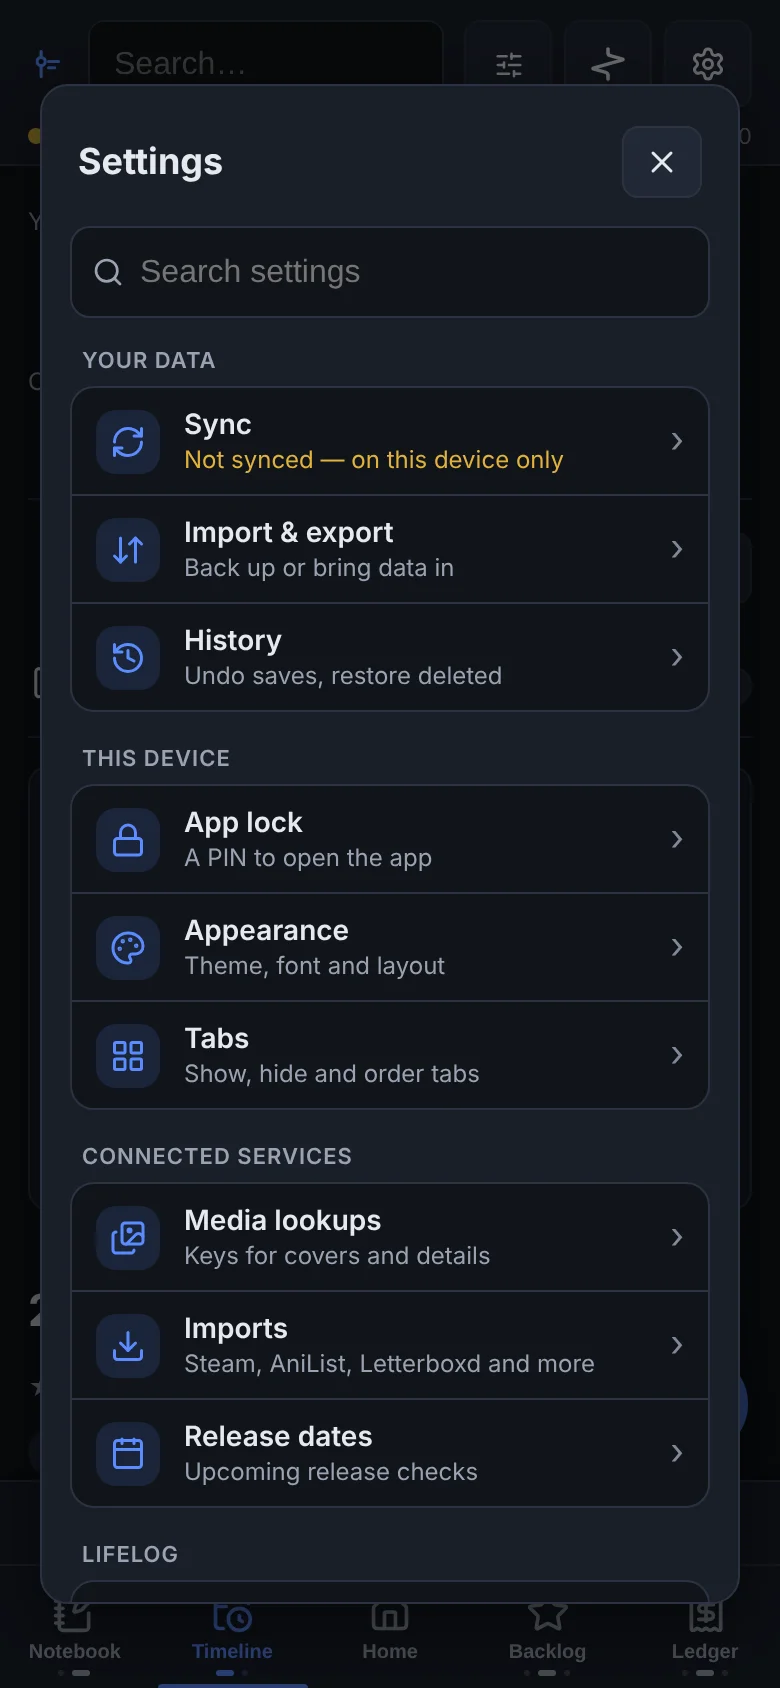
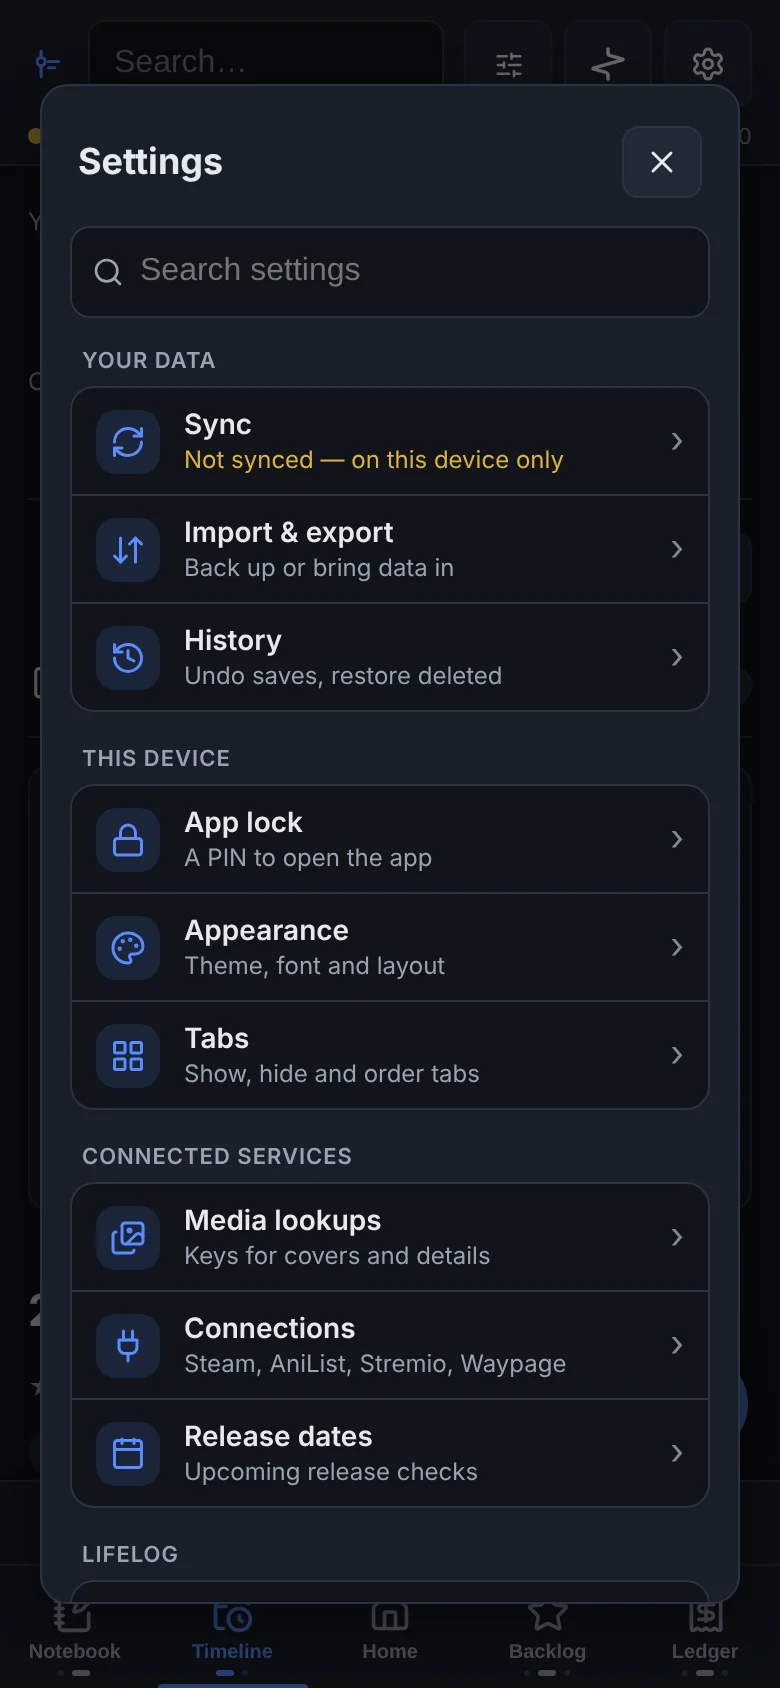
Rename Settings → Imports to Connections (#94)
The page now holds two-way and ongoing links (AniList, Stremio, Waypage,
Steam checks, Google Wallet) as well as one-off imports. Only the label,
title, row icon (plug) and row line change; the page id stays "imports"
and nothing in stored data is renamed. "imports" stays a search keyword.

Claude-Session: https://claude.ai/code/session_01CFeKrhafUbCph17Gwgc1uq

diff --git a/index.html b/index.html
@@ -1405,7 +1405,7 @@
             <div class="sgroup-label">Connected services</div>
             <div class="sgroup-card">
               <button type="button" class="srow" data-page="media"><span class="srow-ic"><span data-ico="images"></span></span><span class="srow-text"><span class="srow-title">Media lookups</span><span class="srow-status" data-status="media"></span></span><span class="srow-chev" aria-hidden="true">›</span></button>
-              <button type="button" class="srow" data-page="imports"><span class="srow-ic"><span data-ico="download"></span></span><span class="srow-text"><span class="srow-title">Imports</span><span class="srow-status" data-status="imports"></span></span><span class="srow-chev" aria-hidden="true">›</span></button>
+              <button type="button" class="srow" data-page="imports"><span class="srow-ic"><span data-ico="plug"></span></span><span class="srow-text"><span class="srow-title">Connections</span><span class="srow-status" data-status="imports"></span></span><span class="srow-chev" aria-hidden="true">›</span></button>
               <button type="button" class="srow" data-page="releases"><span class="srow-ic"><span data-ico="calendar"></span></span><span class="srow-text"><span class="srow-title">Release dates</span><span class="srow-status" data-status="releases"></span></span><span class="srow-chev" aria-hidden="true">›</span></button>
             </div>
           </div>
@@ -1901,8 +1901,8 @@
       </section>
       </div>
 
-      <div class="settings-page" hidden data-page="imports" data-title="Imports" data-keywords="steam wishlist how long to beat hltb game times opencritic metacritic scores anilist planning watching completed anime manga stremio waypage reading books audiobooks comics serials minutes google wallet pay payment notification expense letterboxd films diary watchlist zip csv owned library played playtime backfill api key">
-      <h2 class="settings-page-title">Imports</h2>
+      <div class="settings-page" hidden data-page="imports" data-title="Connections" data-keywords="connections imports sync steam wishlist how long to beat hltb game times opencritic metacritic scores anilist planning watching completed anime manga stremio waypage reading books audiobooks comics serials minutes google wallet pay payment notification expense letterboxd films diary watchlist zip csv owned library played playtime backfill api key">
+      <h2 class="settings-page-title">Connections</h2>
       <p class="hint page-lede">You pick what comes in, and nothing already in your backlog is added twice. The automatic check only tells you what's new.</p>
       <section class="sgroup">
         <h3 class="sgroup-label">Steam wishlist</h3>

diff --git a/src/sync.js b/src/sync.js
@@ -168,7 +168,7 @@
   // with nothing known is remembered on this device for two weeks so it
   // isn't asked on every launch, and one whose lookup failed waits a day
   // (0.282.3), so a game the route keeps failing on can't hold the same
-  // forty in front of every launch. Settings → Imports turns it off.
+  // forty in front of every launch. Settings → Connections turns it off.
   const GAME_TIMES_KEY = "lifelog-gametimes-v1";
   const GAME_TIMES_MISS_DAYS = 14, GAME_TIMES_FAIL_DAYS = 1, GAME_TIMES_PER_RUN = 40;
   const dayMs = 24 * 60 * 60 * 1000;
@@ -977,7 +977,7 @@
     if (count) window.LifeLogIcons.setLabel(btn, "gamepad-2", `Backfill missing game info (${count})`);
   }
 
-  // A quiet periodic check, paced by Settings → Imports → "Check
+  // A quiet periodic check, paced by Settings → Connections → "Check
   // automatically" (days between checks; 0 = never runs). Only counts how
   // many wishlist games aren't in the backlog/Journal yet and toasts that
   // count — never opens the review picker or adds anything on its own, and
@@ -1009,7 +1009,7 @@
         );
         const newCount = items.filter((it) => !existingSteamIds.has(String(it.appid))).length;
         if (newCount > 0) {
-          toast(`${newCount} new Steam wishlist game${newCount === 1 ? "" : "s"} — Settings → Imports to sync`);
+          toast(`${newCount} new Steam wishlist game${newCount === 1 ? "" : "s"} — Settings → Connections to sync`);
         }
         job.finish(newCount ? `${newCount} new on your wishlist` : "Nothing new on your wishlist");
       });
@@ -1604,7 +1604,7 @@
     await persist();
   }
 
-  // Settings → Imports → AniList → Sync automatically: "open" (every time
+  // Settings → Connections → AniList → Sync automatically: "open" (every time
   // the app opens or comes back, ANILIST_OPEN_GAP apart at most), days
   // between syncs, or "0" for never. Per device, like the other checks.
   function aniListDue(setting, lastAt, now = Date.now()) {

diff --git a/test/browser/settingspanel.js b/test/browser/settingspanel.js
@@ -108,6 +108,9 @@ const shown = (page, sel) => page.evaluate((q) => {
   check("every page has a row on the list, and every row a page",
     rows.length === pages.length && rows.every((r) => pages.includes(r.page)), { rows, pages });
   check("and every row says where things stand", rows.every((r) => r.status.trim()), rows);
+  check("the connections row is named Connections, its id still imports (2026-11-13)",
+    await page.evaluate(() => document.querySelector('.srow[data-page="imports"] .srow-title').textContent === "Connections" &&
+      document.querySelector('.settings-page[data-page="imports"]').dataset.title === "Connections"));
   check("an unsynced device's row says so", /not synced/i.test(rows.find((r) => r.page === "sync").status), rows);
   check("on a computer the list and the first page open together",
     await shown(page, "#settingsHome") && await shown(page, '.settings-page[data-page="sync"]'));
@@ -137,6 +140,10 @@ const shown = (page, sel) => page.evaluate((q) => {
   await page.waitForTimeout(200);
   check("a select's choices are searchable too",
     await page.evaluate(() => [...document.querySelectorAll("#settingsResults .srow-result")].some((r) => /Color scheme/.test(r.textContent))));
+  await page.fill("#settingsSearch", "imports");
+  await page.waitForTimeout(200);
+  check("the old name, imports, still finds the Connections page",
+    await page.evaluate(() => [...document.querySelectorAll("#settingsResults .srow-result")].some((r) => /Connections/.test(r.textContent))));
   await page.fill("#settingsSearch", "qqqzzz");
   await page.waitForTimeout(200);
   check("nothing found says so", await page.evaluate(() => /No results/.test(document.querySelector("#settingsResults").textContent)));

diff --git a/test/browser/steamowned.js b/test/browser/steamowned.js
@@ -1,4 +1,4 @@
-// Steam played-games backfill (0.253.0): with a key set, the Imports button
+// Steam played-games backfill (0.253.0): with a key set, the Connections button
 // reads GetOwnedGames through the proxy and opens the import review with
 // every played game as a Timeline entry, the long ones ticked. Confirming
 // writes entries with the Steam link, the hours and the month last played.
@@ -38,7 +38,7 @@ const SEED = {
 
   await page.click("#settingsBtn"); await page.waitForTimeout(300);
   await page.click('.srow[data-page="imports"]'); await page.waitForTimeout(300);
-  check("the Imports page offers the played-games backfill", await page.isVisible("#steamOwnedSyncBtn"));
+  check("the Connections page offers the played-games backfill", await page.isVisible("#steamOwnedSyncBtn"));
   check("the API key field shows the saved key without revealing it", (await page.inputValue("#steamApiKey")) === SEED.settings.steam.apiKey && (await page.getAttribute("#steamApiKey", "type")) === "password");
   await page.click("#steamOwnedSyncBtn");
   await page.waitForSelector("#financePickerModal:not([hidden])", { timeout: 8000 });

diff --git a/test/browser/letterboxd.js b/test/browser/letterboxd.js
@@ -1,4 +1,4 @@
-// Letterboxd import (0.252.0): the export zip, picked in Settings → Imports,
+// Letterboxd import (0.252.0): the export zip, picked in Settings → Connections,
 // opens the import review with the diary as entries and the watchlist as
 // backlog; confirming writes them. The zip is built here with deflate, the
 // way Letterboxd's is.
@@ -51,7 +51,7 @@ const SEED = {
 
   await page.click("#settingsBtn"); await page.waitForTimeout(300);
   await page.click('.srow[data-page="imports"]'); await page.waitForTimeout(300);
-  check("the Imports page offers Letterboxd", await page.isVisible("#letterboxdImportBtn"));
+  check("the Connections page offers Letterboxd", await page.isVisible("#letterboxdImportBtn"));
   check("films default to the Films category", (await page.inputValue("#letterboxdCategory")) === "Films");
   await page.setInputFiles("#letterboxdImportInput", { name: "letterboxd-export.zip", mimeType: "application/zip", buffer: ZIP });
   await page.waitForSelector("#financePickerModal:not([hidden])", { timeout: 8000 });

diff --git a/src/icons.js b/src/icons.js
@@ -71,6 +71,7 @@
     "plane": '<path d="M17.8 19.2 16 11l3.5-3.5C21 6 21.5 4 21 3c-1-.5-3 0-4.5 1.5L13 8 4.8 6.2c-.5-.1-.9.1-1.1.5l-.3.5c-.2.5-.1 1 .3 1.3L9 12l-2 3H4l-1 1 3 2 2 3 1-1v-3l3-2 3.5 5.3c.3.4.8.5 1.3.3l.5-.2c.4-.3.6-.7.5-1.2z"/>',
     "play": '<path d="M5 5a2 2 0 0 1 3.008-1.728l11.997 6.998a2 2 0 0 1 .003 3.458l-12 7A2 2 0 0 1 5 19z"/>',
     "minus": '<path d="M5 12h14"/>',
+    "plug": '<path d="M12 22v-5"/><path d="M9 8V2"/><path d="M15 8V2"/><path d="M18 8v5a4 4 0 0 1-4 4h-4a4 4 0 0 1-4-4V8Z"/>',
     "plus": '<path d="M5 12h14"/><path d="M12 5v14"/>',
     "pin": '<path d="M12 17v5"/><path d="M9 10.76a2 2 0 0 1-1.11 1.79l-1.78.9A2 2 0 0 0 5 15.24V16a1 1 0 0 0 1 1h12a1 1 0 0 0 1-1v-.76a2 2 0 0 0-1.11-1.79l-1.78-.9A2 2 0 0 1 15 10.76V7a1 1 0 0 1 1-1 2 2 0 0 0 0-4H8a2 2 0 0 0 0 4 1 1 0 0 1 1 1z"/>',
     "pin-off": '<path d="M12 17v5"/><path d="M15 9.34V7a1 1 0 0 1 1-1 2 2 0 0 0 0-4H7.89"/><path d="m2 2 20 20"/><path d="M9 9v1.76a2 2 0 0 1-1.11 1.79l-1.78.9A2 2 0 0 0 5 15.24V16a1 1 0 0 0 1 1h11"/>',

diff --git a/src/payments.js b/src/payments.js
@@ -1,6 +1,6 @@
 // LifeLog — Google Wallet payments offered to the Ledger (0.238.0), the
 // Android app only. The phone does the work (native/widgets: Payments,
-// PaymentListener); this is the switch for it, on Settings → Imports, and
+// PaymentListener); this is the switch for it, on Settings → Connections, and
 // the two things it needs from Android: notification access, to see
 // Wallet's notification, and LifeLog's own notifications, to offer it.
 // The switch lives on the phone, not in the synced data: it means nothing
@@ -69,7 +69,7 @@
     if (!last.access) W.openPaymentAccess();
   }
 
-  // For the Imports row on the Settings list.
+  // For the Connections row on the Settings list.
   const summary = () => (plugin() && last.on ? "Google Wallet" : "");
 
   // ctx: { $, Platform, toast }

diff --git a/test/browser/native.js b/test/browser/native.js
@@ -1378,7 +1378,7 @@ async function openApp(browser, { native = true, latestTag = null, cache = doc([
     await page.waitForTimeout(300);
     await page.evaluate(() => document.querySelector('.srow[data-page="imports"]').click());
     await page.waitForTimeout(300);
-    check("the switch is on Imports, in the app", await page.evaluate(() => !document.querySelector("#paymentsGroup").hidden));
+    check("the switch is on Connections, in the app", await page.evaluate(() => !document.querySelector("#paymentsGroup").hidden));
     await page.selectOption("#paymentsOn", "on");
     await page.waitForTimeout(400);
     const on = await page.evaluate(() => ({ set: window.__cap.paymentsSet, asked: window.__cap.askedToNotify, opened: window.__cap.paymentAccessOpened,

diff --git a/bridge/tools.js b/bridge/tools.js
@@ -1419,7 +1419,7 @@ const TOOLS = [
     async run() {
       const d = await readData();
       const c = Waypage.cleanConfig((d.settings || {}).waypage);
-      const out = [c.repo ? `Waypage: reading ${c.repo}${c.token ? "" : " (no token yet, so nothing is read)"}.` : "Waypage isn't connected (Settings → Imports → Waypage reading)."];
+      const out = [c.repo ? `Waypage: reading ${c.repo}${c.token ? "" : " (no token yet, so nothing is read)"}.` : "Waypage isn't connected (Settings → Connections → Waypage reading)."];
       const kinds = Waypage.KINDS.map((k) => `${Waypage.KIND_NAMES[k]} → ${c.kinds[k] || "not brought in"}`);
       out.push("Kinds: " + kinds.join(", ") + ".");
       const h = (d.habits || []).find((x) => x.id === c.habit);

diff --git a/test/browser/stremio.js b/test/browser/stremio.js
@@ -65,7 +65,7 @@ const TMDB = {
 
   await page.click("#settingsBtn"); await page.waitForTimeout(300);
   await page.click('.srow[data-page="imports"]'); await page.waitForTimeout(300);
-  check("the Imports page offers Stremio, signed out", await page.isVisible("#stremioSignInBtn") && /Not signed in/.test(await page.textContent("#stremioState")));
+  check("the Connections page offers Stremio, signed out", await page.isVisible("#stremioSignInBtn") && /Not signed in/.test(await page.textContent("#stremioState")));
   await page.fill("#stremioEmail", "me@example.com");
   await page.fill("#stremioPassword", "wrong");
   await page.click("#stremioSignInBtn"); await page.waitForTimeout(400);

diff --git a/src/app.js b/src/app.js
@@ -4981,7 +4981,7 @@
     Backlog.wire(); // backlog modal: sync, priority/dropped, title suggestions
     Wheel.wire(); // the random wheel inside the Backlog's Pick sheet
     SettingsUI.wire(); // the Settings modal: tabs, data/storage, appearance, media, privacy
-    Waypage.wire(); // its group on Settings → Imports
+    Waypage.wire(); // its group on Settings → Connections
 
     $("#exportJsonBtn").onclick = IO.exportJson;
     $("#importJsonBtn").onclick = () => $("#importJsonInput").click();

diff --git a/src/styles.css b/src/styles.css
@@ -5340,5 +5340,5 @@ html.force-mobile .invest-hold-stats { grid-template-columns: repeat(2, minmax(0
 html.force-mobile #rangeFilterGroup > label { display: none; }
 html.force-mobile #rangeFilter { flex-wrap: nowrap; gap: 6px; overflow-x: auto; scrollbar-width: none; }
 
-/* Settings → Imports → Waypage reading: a review row's three answers. */
+/* Settings → Connections → Waypage reading: a review row's three answers. */
 .wp-review-btns { display: flex; flex-wrap: wrap; gap: var(--space-8); }
